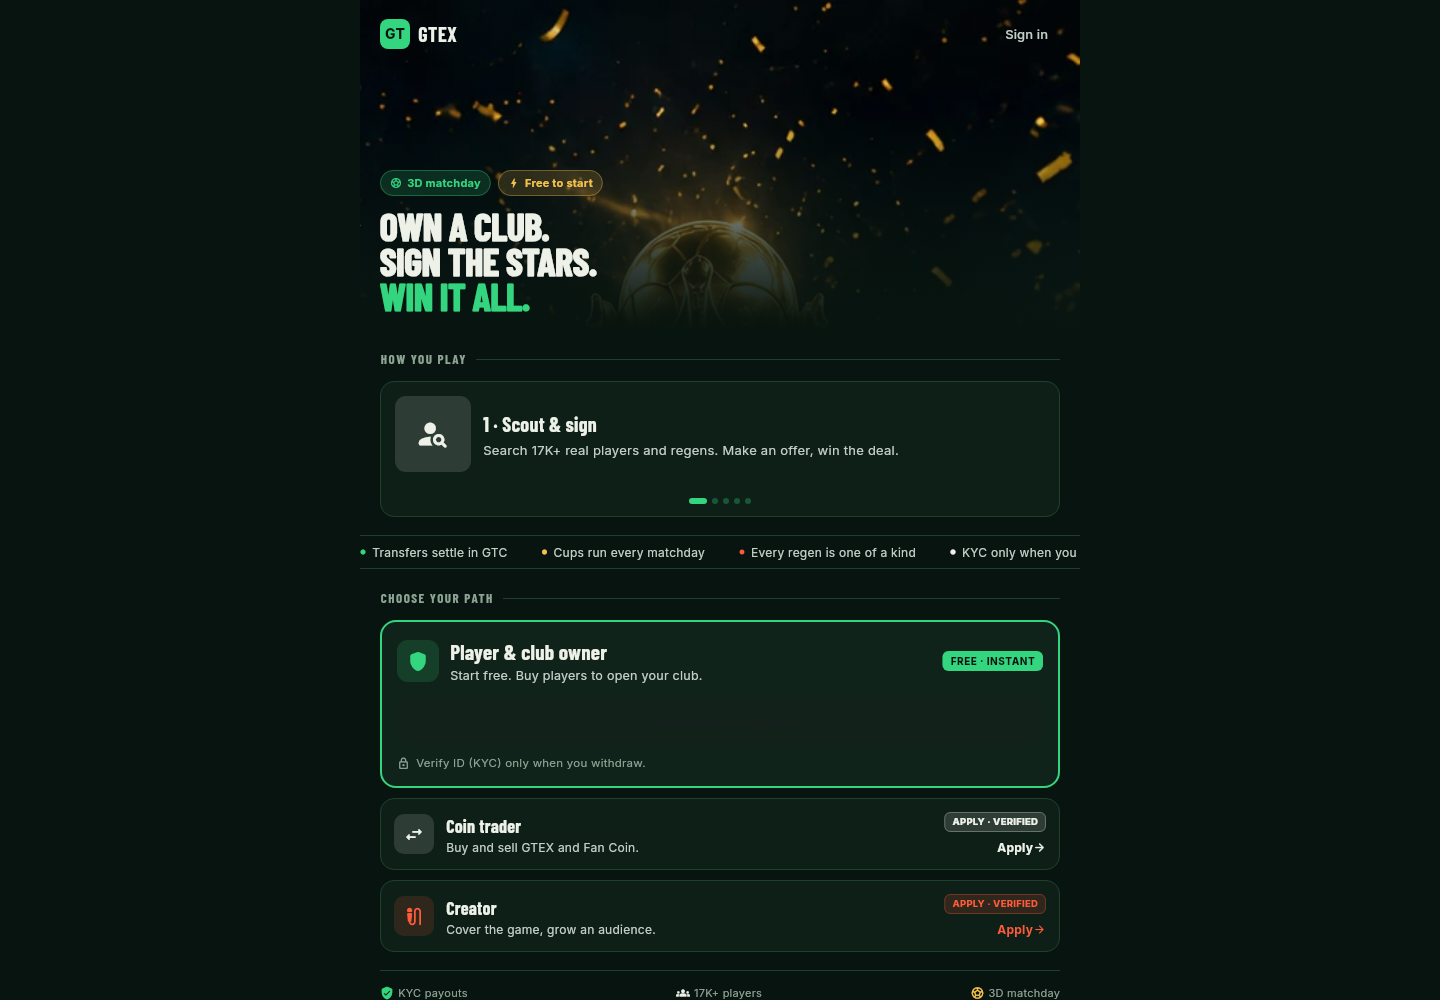
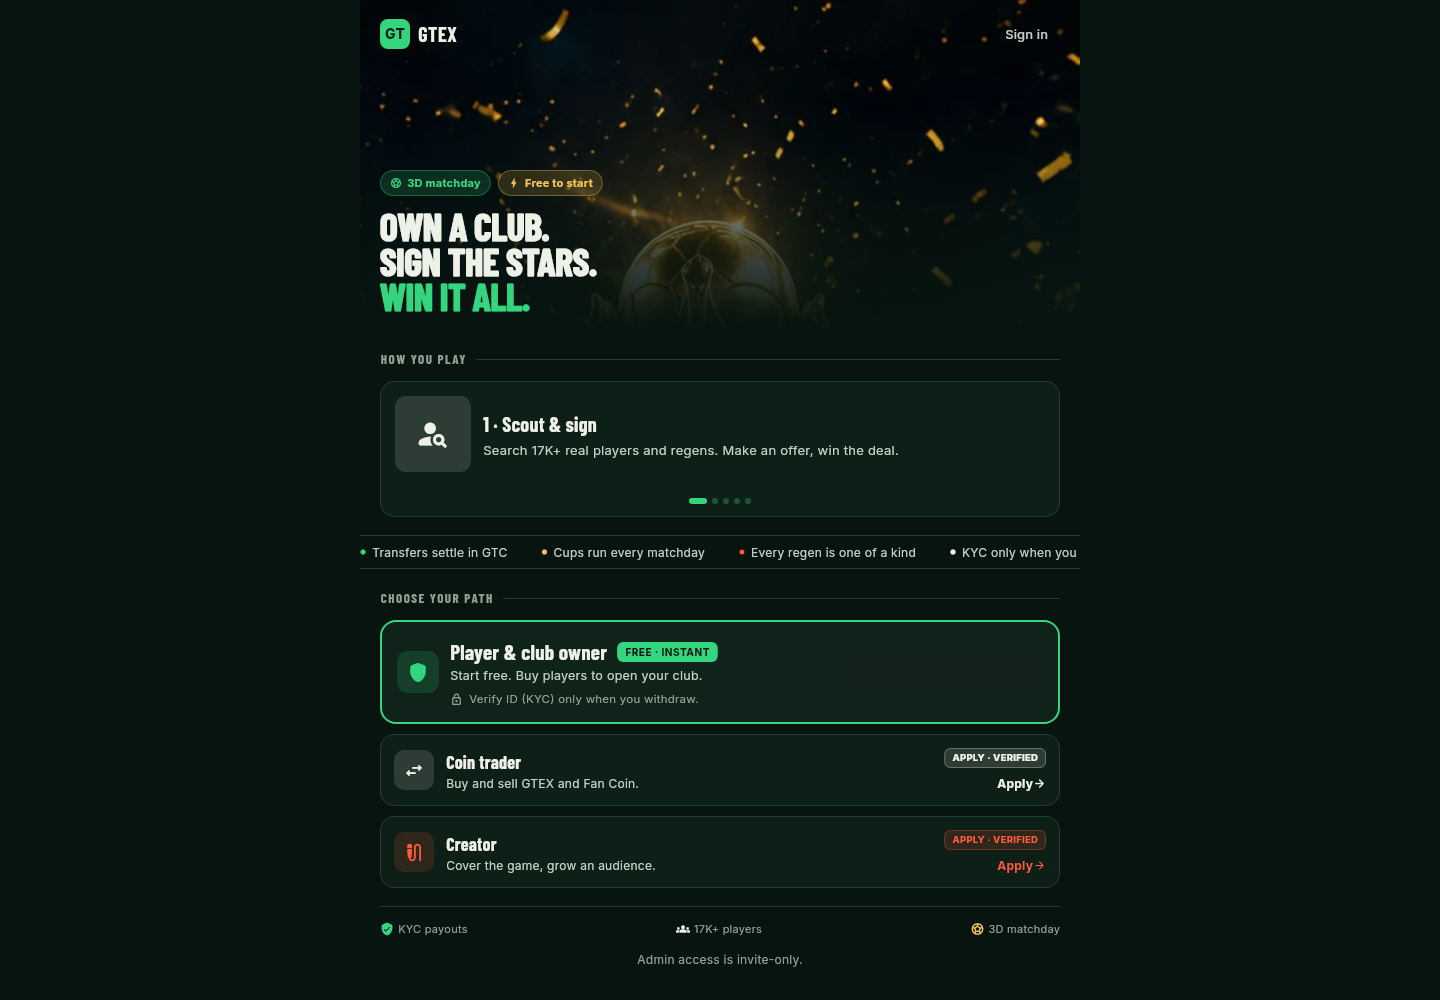
Move default shell theme to Floodlit palette and tighten landing path card

diff --git a/frontend/lib/features/onboarding_redesign/gtex_public_landing_screen_v2.dart b/frontend/lib/features/onboarding_redesign/gtex_public_landing_screen_v2.dart
@@ -720,102 +720,150 @@ class _PrimaryPathCard extends StatelessWidget {
 
   final VoidCallback? onTap;
 
+  static const double _inlineBreakpoint = 560;
+
+  @override
+  Widget build(BuildContext context) {
+    return LayoutBuilder(
+      builder: (BuildContext context, BoxConstraints constraints) {
+        final bool inline = constraints.maxWidth >= _inlineBreakpoint;
+        final Widget button = FilledButton(
+          onPressed: onTap,
+          style: FilledButton.styleFrom(
+            backgroundColor: _green,
+            foregroundColor: _onPitch,
+            padding: EdgeInsets.symmetric(
+              horizontal: inline ? 22 : 0,
+              vertical: 13,
+            ),
+            shape: RoundedRectangleBorder(
+              borderRadius: BorderRadius.circular(11),
+            ),
+          ),
+          child: const Text(
+            'Create free account',
+            style: TextStyle(fontSize: 15, fontWeight: FontWeight.w800),
+          ),
+        );
+        const Widget kycNote = Row(
+          mainAxisSize: MainAxisSize.min,
+          children: <Widget>[
+            Icon(Icons.lock_outline_rounded, size: 13, color: _textMuted),
+            SizedBox(width: 6),
+            Flexible(
+              child: Text(
+                'Verify ID (KYC) only when you withdraw.',
+                style: TextStyle(color: _textMuted, fontSize: 11.5),
+              ),
+            ),
+          ],
+        );
+
+        return Container(
+          padding: const EdgeInsets.all(15),
+          decoration: BoxDecoration(
+            color: GtexFloodlit.turf.withValues(alpha: 0.7),
+            borderRadius: BorderRadius.circular(16),
+            border: Border.all(color: _green, width: 2),
+          ),
+          child: Column(
+            crossAxisAlignment: CrossAxisAlignment.stretch,
+            children: <Widget>[
+              Row(
+                children: <Widget>[
+                  Container(
+                    width: 42,
+                    height: 42,
+                    decoration: BoxDecoration(
+                      color: _green.withValues(alpha: 0.16),
+                      borderRadius: BorderRadius.circular(11),
+                    ),
+                    child: const Icon(
+                      Icons.shield_rounded,
+                      color: _green,
+                      size: 23,
+                    ),
+                  ),
+                  const SizedBox(width: 11),
+                  Expanded(
+                    child: Column(
+                      crossAxisAlignment: CrossAxisAlignment.start,
+                      children: <Widget>[
+                        Row(
+                          children: <Widget>[
+                            const Flexible(
+                              child: Text(
+                                'Player & club owner',
+                                maxLines: 1,
+                                overflow: TextOverflow.ellipsis,
+                                style: TextStyle(
+                                  fontFamily: _condensed,
+                                  color: _text,
+                                  fontSize: 21,
+                                  fontWeight: FontWeight.w800,
+                                ),
+                              ),
+                            ),
+                            if (inline) ...<Widget>[
+                              const SizedBox(width: 10),
+                              const _FreeBadge(),
+                            ],
+                          ],
+                        ),
+                        const Text(
+                          'Start free. Buy players to open your club.',
+                          style: TextStyle(
+                            color: _textSecondary,
+                            fontSize: 12.5,
+                          ),
+                        ),
+                        if (inline) ...<Widget>[
+                          const SizedBox(height: 6),
+                          kycNote,
+                        ],
+                      ],
+                    ),
+                  ),
+                  if (inline) ...<Widget>[
+                    const SizedBox(width: 16),
+                    button,
+                  ] else
+                    const _FreeBadge(),
+                ],
+              ),
+              if (!inline) ...<Widget>[
+                const SizedBox(height: 13),
+                button,
+                const SizedBox(height: 9),
+                kycNote,
+              ],
+            ],
+          ),
+        );
+      },
+    );
+  }
+}
+
+class _FreeBadge extends StatelessWidget {
+  const _FreeBadge();
+
   @override
   Widget build(BuildContext context) {
     return Container(
-      padding: const EdgeInsets.all(15),
+      padding: const EdgeInsets.symmetric(horizontal: 8, vertical: 3),
       decoration: BoxDecoration(
-        color: GtexFloodlit.turf.withValues(alpha: 0.7),
-        borderRadius: BorderRadius.circular(16),
-        border: Border.all(color: _green, width: 2),
+        color: _green,
+        borderRadius: BorderRadius.circular(6),
       ),
-      child: Column(
-        crossAxisAlignment: CrossAxisAlignment.stretch,
-        children: <Widget>[
-          Row(
-            children: <Widget>[
-              Container(
-                width: 42,
-                height: 42,
-                decoration: BoxDecoration(
-                  color: _green.withValues(alpha: 0.16),
-                  borderRadius: BorderRadius.circular(11),
-                ),
-                child: const Icon(
-                  Icons.shield_rounded,
-                  color: _green,
-                  size: 23,
-                ),
-              ),
-              const SizedBox(width: 11),
-              const Expanded(
-                child: Column(
-                  crossAxisAlignment: CrossAxisAlignment.start,
-                  children: <Widget>[
-                    Text(
-                      'Player & club owner',
-                      style: TextStyle(
-                        fontFamily: _condensed,
-                        color: _text,
-                        fontSize: 21,
-                        fontWeight: FontWeight.w800,
-                      ),
-                    ),
-                    Text(
-                      'Start free. Buy players to open your club.',
-                      style: TextStyle(color: _textSecondary, fontSize: 12.5),
-                    ),
-                  ],
-                ),
-              ),
-              Container(
-                padding: const EdgeInsets.symmetric(horizontal: 8, vertical: 3),
-                decoration: BoxDecoration(
-                  color: _green,
-                  borderRadius: BorderRadius.circular(6),
-                ),
-                child: const Text(
-                  'FREE · INSTANT',
-                  style: TextStyle(
-                    color: _onPitch,
-                    fontSize: 10,
-                    fontWeight: FontWeight.w800,
-                    letterSpacing: 0.5,
-                  ),
-                ),
-              ),
-            ],
-          ),
-          const SizedBox(height: 13),
-          FilledButton(
-            onPressed: onTap,
-            style: FilledButton.styleFrom(
-              backgroundColor: _green,
-              foregroundColor: _onPitch,
-              padding: const EdgeInsets.symmetric(vertical: 13),
-              shape: RoundedRectangleBorder(
-                borderRadius: BorderRadius.circular(11),
-              ),
-            ),
-            child: const Text(
-              'Create free account',
-              style: TextStyle(fontSize: 15, fontWeight: FontWeight.w800),
-            ),
-          ),
-          const SizedBox(height: 9),
-          Row(
-            children: const <Widget>[
-              Icon(Icons.lock_outline_rounded, size: 13, color: _textMuted),
-              SizedBox(width: 6),
-              Expanded(
-                child: Text(
-                  'Verify ID (KYC) only when you withdraw.',
-                  style: TextStyle(color: _textMuted, fontSize: 11.5),
-                ),
-              ),
-            ],
-          ),
-        ],
+      child: const Text(
+        'FREE · INSTANT',
+        style: TextStyle(
+          color: _onPitch,
+          fontSize: 10,
+          fontWeight: FontWeight.w800,
+          letterSpacing: 0.5,
+        ),
       ),
     );
   }

diff --git a/frontend/lib/theme/gte_theme_registry.dart b/frontend/lib/theme/gte_theme_registry.dart
@@ -60,25 +60,25 @@ class GteThemeRegistry {
       brightness: Brightness.dark,
     ),
     tokens: GteThemeTokens(
-      background: Color(0xFF040608),
-      backgroundSoft: Color(0xFF0A0E11),
-      panel: Color(0xFF101518),
-      panelStrong: Color(0xFF151C20),
-      panelElevated: Color(0xFF1B2328),
-      stroke: Color(0xFF2B363B),
-      outline: Color(0xFF3A484E),
-      surfaceHighlight: Color(0xFFF4FFF6),
-      shadow: Color(0xFF010202),
-      accent: Color(0xFFB9FF2C),
+      background: Color(0xFF050D09),
+      backgroundSoft: Color(0xFF08140F),
+      panel: Color(0xFF0E1F17),
+      panelStrong: Color(0xFF13291E),
+      panelElevated: Color(0xFF183324),
+      stroke: Color(0xFF20402F),
+      outline: Color(0xFF2C5540),
+      surfaceHighlight: Color(0xFFEDF1E8),
+      shadow: Color(0xFF010402),
+      accent: Color(0xFF34D57F),
       accentWarm: Color(0xFF70F0C0),
-      accentArena: Color(0xFFE7FF79),
+      accentArena: Color(0xFFFF5B3A),
       accentCommunity: Color(0xFF49DDA1),
-      accentCapital: Color(0xFFFFD75B),
+      accentCapital: Color(0xFFF4C24D),
       accentClub: Color(0xFF66D7FF),
       accentAdmin: Color(0xFFFF7B5C),
-      textPrimary: Color(0xFFF4F7F4),
-      textMuted: Color(0xFF93A39D),
-      textInverse: Color(0xFF071108),
+      textPrimary: Color(0xFFEDF1E8),
+      textMuted: Color(0xFF8EA596),
+      textInverse: Color(0xFF04140B),
       positive: Color(0xFF69F3A4),
       negative: Color(0xFFFF6A6A),
       warning: Color(0xFFFFC857),
@@ -93,28 +93,28 @@ class GteThemeRegistry {
       radiusPill: 999,
     ),
     visuals: GteThemeVisuals(
-      shellStyle: 'Bloomberg terminal meets elite football broadcast',
+      shellStyle: 'Floodlit night pitch with chalk-line markings',
       glass: false,
       surfaceOpacity: 0.96,
       surfaceBlurSigma: 6,
-      ambientPrimary: Color(0xFFB9FF2C),
+      ambientPrimary: Color(0xFF34D57F),
       ambientSecondary: Color(0xFF66D7FF),
-      ambientTertiary: Color(0xFFFFD75B),
-      heroStart: Color(0xFF121A1B),
-      heroEnd: Color(0xFF081013),
-      heroAccent: Color(0xFFB9FF2C),
-      shellFill: Color(0xEE0F1418),
-      shellBorder: Color(0xFF283237),
-      navGlow: Color(0xFFB9FF2C),
+      ambientTertiary: Color(0xFFF4C24D),
+      heroStart: Color(0xFF13291E),
+      heroEnd: Color(0xFF08140F),
+      heroAccent: Color(0xFF34D57F),
+      shellFill: Color(0xEE0B1A13),
+      shellBorder: Color(0xFF20402F),
+      navGlow: Color(0xFF34D57F),
       chartPositive: Color(0xFF69F3A4),
       chartNegative: Color(0xFFFF6A6A),
-      chartNeutral: Color(0xFF93A39D),
-      chartHighlight: Color(0xFFB9FF2C),
+      chartNeutral: Color(0xFF8EA596),
+      chartHighlight: Color(0xFF34D57F),
       chartSecondary: Color(0xFF66D7FF),
-      scorebugBackground: Color(0xFF080B0E),
-      scorebugBorder: Color(0xFF2E3C42),
-      scorebugAccent: Color(0xFFB9FF2C),
-      scorebugText: Color(0xFFF4F7F4),
+      scorebugBackground: Color(0xFF06100B),
+      scorebugBorder: Color(0xFF20402F),
+      scorebugAccent: Color(0xFF34D57F),
+      scorebugText: Color(0xFFEDF1E8),
     ),
     typography: GteThemeTypography(
       styleName: 'Condensed matchday sans',

diff --git a/frontend/lib/widgets/gte_shell_theme.dart b/frontend/lib/widgets/gte_shell_theme.dart
@@ -12,21 +12,21 @@ import '../theme/gte_theme_tokens.dart';
 class GteShellTheme {
   const GteShellTheme._();
 
-  static const Color background = Color(0xFF040608);
-  static const Color backgroundSoft = Color(0xFF0A0E11);
-  static const Color panel = Color(0xFF101518);
-  static const Color panelStrong = Color(0xFF151C20);
-  static const Color panelElevated = Color(0xFF1B2328);
-  static const Color stroke = Color(0xFF2B363B);
-  static const Color accent = Color(0xFFB9FF2C);
+  static const Color background = Color(0xFF050D09);
+  static const Color backgroundSoft = Color(0xFF08140F);
+  static const Color panel = Color(0xFF0E1F17);
+  static const Color panelStrong = Color(0xFF13291E);
+  static const Color panelElevated = Color(0xFF183324);
+  static const Color stroke = Color(0xFF20402F);
+  static const Color accent = Color(0xFF34D57F);
   static const Color accentWarm = Color(0xFF70F0C0);
-  static const Color accentArena = Color(0xFFE7FF79);
-  static const Color accentCapital = Color(0xFFFFD75B);
+  static const Color accentArena = Color(0xFFFF5B3A);
+  static const Color accentCapital = Color(0xFFF4C24D);
   static const Color accentCommunity = Color(0xFF49DDA1);
   static const Color accentClub = Color(0xFF66D7FF);
   static const Color accentAdmin = Color(0xFFFF7B5C);
-  static const Color textPrimary = Color(0xFFF4F7F4);
-  static const Color textMuted = Color(0xFF93A39D);
+  static const Color textPrimary = Color(0xFFEDF1E8);
+  static const Color textMuted = Color(0xFF8EA596);
   static const Color textSecondary = textMuted;
   static const Color positive = Color(0xFF69F3A4);
   static const Color negative = Color(0xFFFF6A6A);
@@ -412,7 +412,7 @@ Color _surfaceTint(
 
 BoxDecoration gteBackdropDecoration() {
   return BoxDecoration(
-    color: const Color(0xFF050807),
+    color: const Color(0xFF050D09),
     image: DecorationImage(
       image: const AssetImage('assets/media/gtex_matchday_wallpaper.png'),
       fit: BoxFit.cover,
